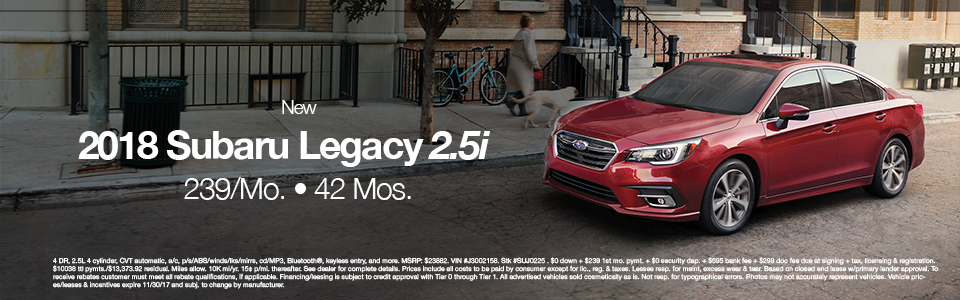
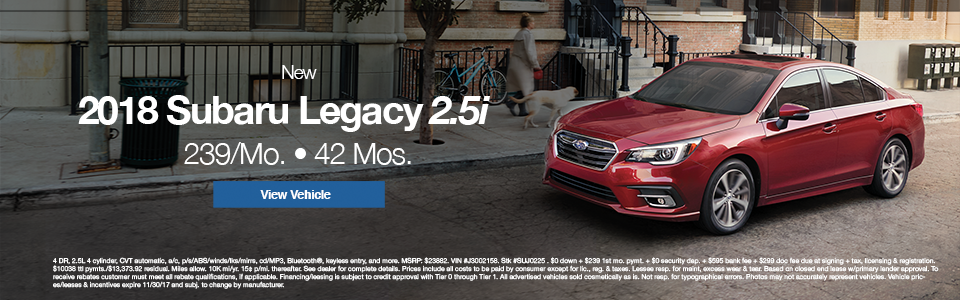
image corrections

Changed region(s): [[0.0625, 0.3, 0.5312, 0.72], [0.2812, 0.21, 0.3438, 0.27]]

diff --git a/misc/subaru/whylegacy/index.html b/misc/subaru/whylegacy/index.html
@@ -21,7 +21,7 @@
 
   </head>
   <body>
-
+<div cl
 <div class="container">
 
 
@@ -30,46 +30,46 @@
 
         <input class="carousel-open" type="radio" id="carousel-1" name="carousel" aria-hidden="true" hidden="" checked="checked">
         <div class="carousel-item">
-            <img src="img/exterior1.png">
+            <img src="https://ramseycarsnj.github.io/ramseyEmails/misc/subaru/whylegacy/img/exterior1.png">
         </div>
 
         <input class="carousel-open" type="radio" id="carousel-2" name="carousel" aria-hidden="true" hidden="">
         <div class="carousel-item">
-            <img src="img/interior1.png">
+            <img src="https://ramseycarsnj.github.io/ramseyEmails/misc/subaru/whylegacy/img/interior1.png">
         </div>
 
 
         <input class="carousel-open" type="radio" id="carousel-3" name="carousel" aria-hidden="true" hidden="">
         <div class="carousel-item">
-            <img src="img/exterior2.png">
+            <img src="https://ramseycarsnj.github.io/ramseyEmails/misc/subaru/whylegacy/img/exterior2.png">
         </div>
 
         <input class="carousel-open" type="radio" id="carousel-4" name="carousel" aria-hidden="true" hidden="">
         <div class="carousel-item">
-            <img src="img/interior2.png">
+            <img src="https://ramseycarsnj.github.io/ramseyEmails/misc/subaru/whylegacy/img/interior2.png">
         </div>
 
         <input class="carousel-open" type="radio" id="carousel-5" name="carousel" aria-hidden="true" hidden="">
         <div class="carousel-item">
-            <img src="img/exterior3.png">
+            <img src="https://ramseycarsnj.github.io/ramseyEmails/misc/subaru/whylegacy/img/exterior3.png">
         </div>
 
         <input class="carousel-open" type="radio" id="carousel-6" name="carousel" aria-hidden="true" hidden="">
         <div class="carousel-item">
-            <img src="img/interior3.png">
+            <img src="https://ramseycarsnj.github.io/ramseyEmails/misc/subaru/whylegacy/img/interior3.png">
         </div>
 
         <input class="carousel-open" type="radio" id="carousel-7" name="carousel" aria-hidden="true" hidden="">
         <div class="carousel-item">
-            <img src="img/exterior4.png">
+            <img src="https://ramseycarsnj.github.io/ramseyEmails/misc/subaru/whylegacy/img/exterior4.png">
         </div>
 
         <input class="carousel-open" type="radio" id="carousel-8" name="carousel" aria-hidden="true" hidden="">
         <div class="carousel-item">
-            <img src="img/interior4.png">
+            <img src="https://ramseycarsnj.github.io/ramseyEmails/misc/subaru/whylegacy/img/interior4.png">
         </div>
 
-
+https://ramseycarsnj.github.io/ramseyEmails/misc/subaru/whylegacy/img/
 
 
         <label for="carousel-8" class="carousel-control prev control-1">‹</label>
@@ -150,14 +150,24 @@
 
 <div class="intro">
 <h1 class="subheading">Key Features</h1>
-  <p class="info"><br /><b>(Transcript for video)</b><br />
-Bacon ipsum dolor amet sirloin porchetta hamburger, bacon brisket burgdoggen t-bone pork belly kevin. Doner short ribs pig, jerky kevin pork loin meatball. Tri-tip turducken shankle spare ribs, porchetta corned beef meatball ham bacon short ribs. Short ribs pork belly pork t-bone drumstick, salami chuck ball tip rump spare ribs tri-tip. Shoulder fatback frankfurter short loin spare ribs shank. Jerky jowl pancetta boudin brisket prosciutto venison bresaola filet mignon swine capicola corned beef landjaeger. Ball tip turkey alcatra ground round sausage, pork loin venison frankfurter pancetta pork chop.  </p>
+  <p class="info"><br />
+
+<br> - Comes standard with Symmetrical AWD and Active Vectoring Control</i></b> that gives you maximum traction in harsh weather.
+<br>
+<br> - The power moonroof not only welcomes in the breeze, it lets the natural light in when it's sunny outside while blocking 95% of UVA rays & 99% of UVB rays.
+<br>
+<br> - Comes with Subaru STARLINK, which includes access to apps, Bluetooth and your music library. Also offers EyeSight technologies.
+
+
+ </p>
 </div>
 
 <br />
-<img class="ad"src="img/ad.png"></a>
-<br /><br />
-<a href="https://www.ramseysubaru.net/new-inventory/index.htm?saveFacetState=true&year=2018&model=Legacy&internetPrice=23880-23884&payment-selection=payment-panel-paymentLease&lastFacetInteracted=inventory-listing1-facet-anchor-internetPrice-0" class="linkButton" target="_blank">View Offer</a>
+<a href="https://www.ramseysubaru.net/new-inventory/index.htm?saveFacetState=true&year=2018&model=Legacy&internetPrice=23880-23884&payment-selection=payment-panel-paymentLease&lastFacetInteracted=inventory-listing1-facet-anchor-internetPrice-0"><img class="ad"src="https://ramseycarsnj.github.io/ramseyEmails/misc/subaru/whylegacy/index.html"></a>
+<p class="info">
+   If you need help with any aspect of the buying process, please don't hesitate to ask us. Our customer service representatives will be happy to assist you in any way.
+</p>
+<a href="https://www.ramseysubaru.net/contact.htm" class="linkButton" target="_blank">Contact Us</a>
 
 
 

diff --git a/misc/subaru/whylegacy/style.css b/misc/subaru/whylegacy/style.css
@@ -1,9 +1,7 @@
 html, body {
-    margin: 0px;
+    margin: 0 0 0 40px;
     padding: 0px;
     background: url("");
-    text-align: center;
-    text-align: center;
 }
 
 font {
@@ -23,7 +21,6 @@ font {
   margin: 0;
   border: px solid #E3E3E3;
   text-align: center;
-
   font-family: Helvetica, sans-serif; }
 
 .intro {
@@ -64,7 +61,7 @@ font {
 
 .carousel {
   position: relative;
-  text-align: :
+  text-align: center;
   margin-top: 26px;
   -webkit-user-select: none; /* Safari */
   -moz-user-select: none; /* Firefox */
@@ -103,7 +100,7 @@ text-align: center; }
   -webkit-user-select: none; /* Safari */
   -moz-user-select: none; /* Firefox */
   -ms-user-select: none; /* IE10+/Edge */
-  user-select: none; /* Standard */ }
+
 }
 
 
